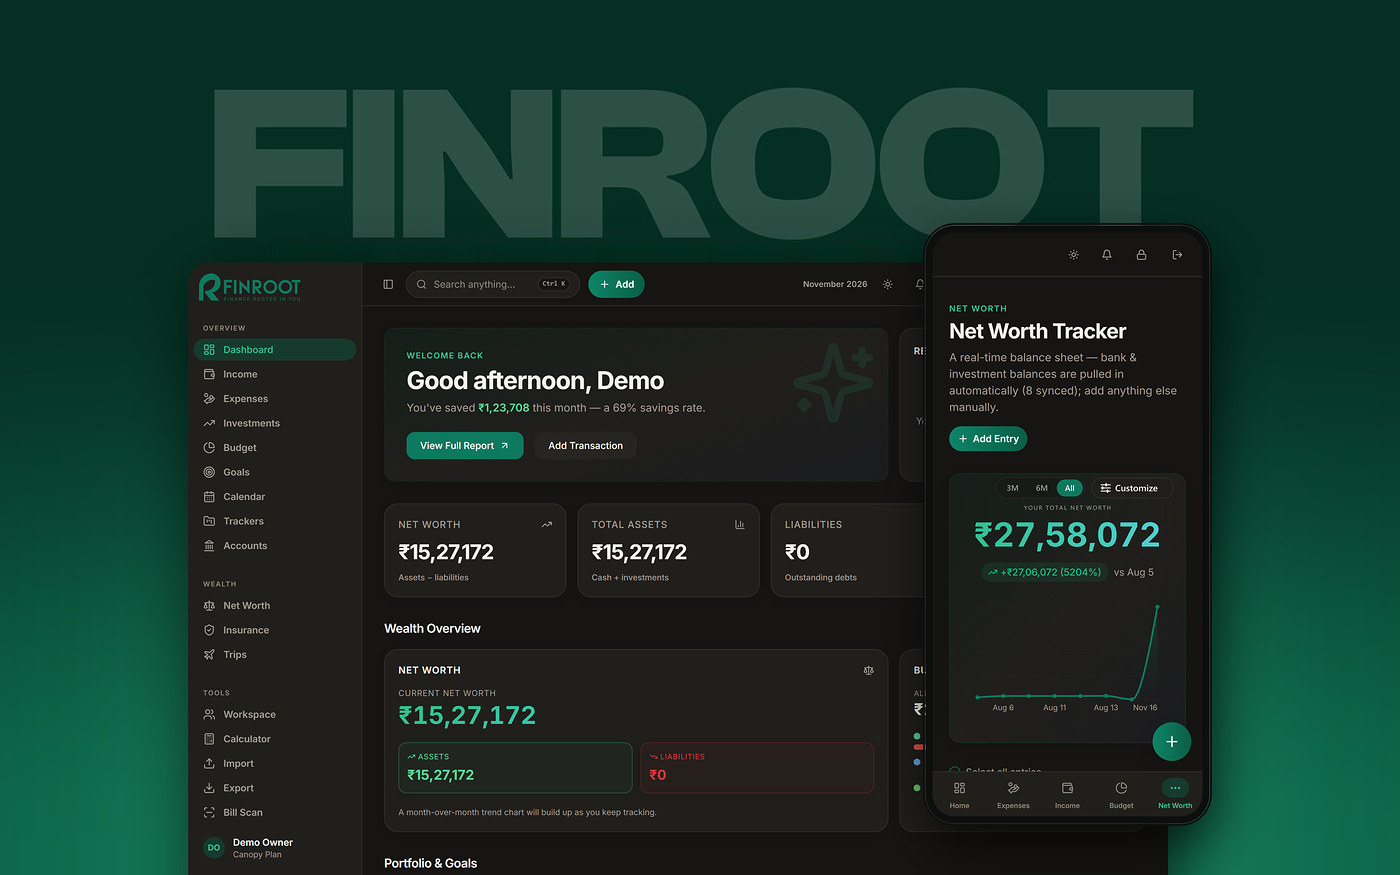
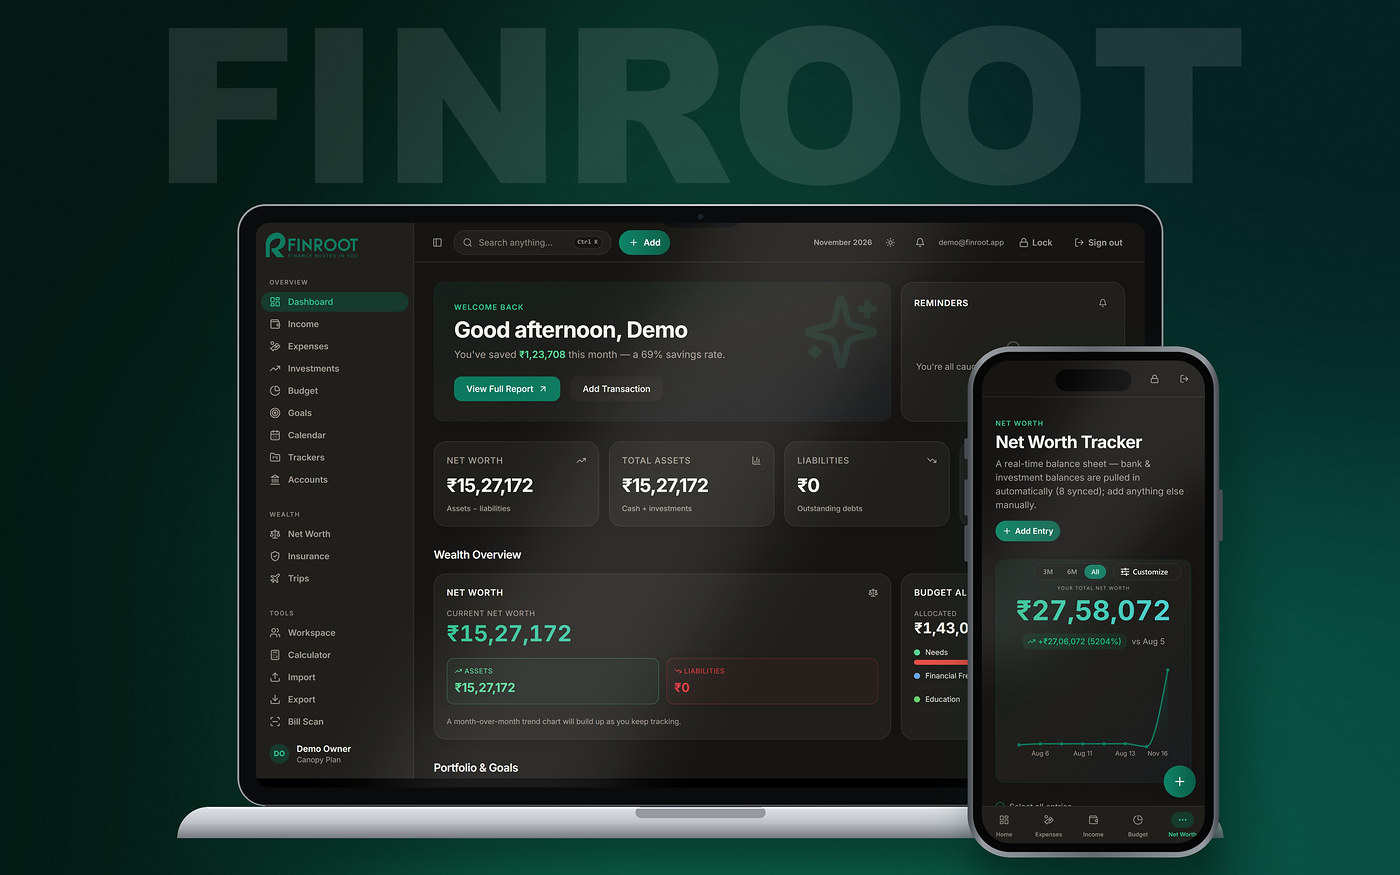
New FinRoot cover: realistic laptop and phone mockup in dark mode
The owner chose a realistic 3D-style mockup: a MacBook-style laptop with
the real dark Dashboard and an iPhone-style phone with the real dark Net
Worth tracker (sample data, label fix kept), on a deep FinRoot-green
background with an emerald glow and a faint FINROOT watermark. Built at
3840x2400 from the full-resolution captures, devices inside the card-safe
area. Alt text updated.

diff --git a/finroot.html b/finroot.html
@@ -70,7 +70,7 @@
     <div><dt>Type</dt><dd>Own</dd><small>product</small></div>
   </dl>
   <p class="rx-desc">One money plan the whole family can see: salary split into buckets on payday, every bill and premium on one calendar, and goals both partners can follow.</p>
-  <div class="hero__cover pd-cover" data-item="cover" style="view-transition-name:shot-finroot;view-transition-class:shot"><img src="assets/images/projects/finroot/cover.jpg" alt="FinRoot in dark mode: the Dashboard on desktop and the Net Worth tracker on a phone, in front of a large FINROOT wordmark on green" /></div>
+  <div class="hero__cover pd-cover" data-item="cover" style="view-transition-name:shot-finroot;view-transition-class:shot"><img src="assets/images/projects/finroot/cover.jpg" alt="FinRoot in dark mode: the Dashboard on a laptop and the Net Worth tracker on a phone, in front of a faint FINROOT wordmark on dark green" /></div>
 </header>
 
 
